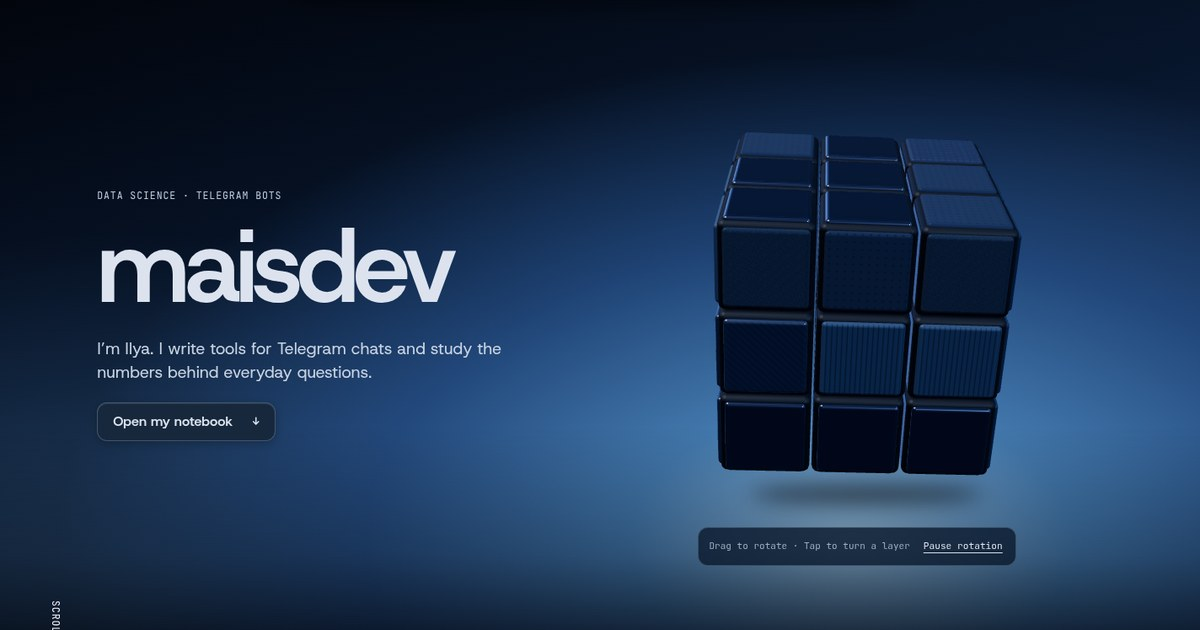
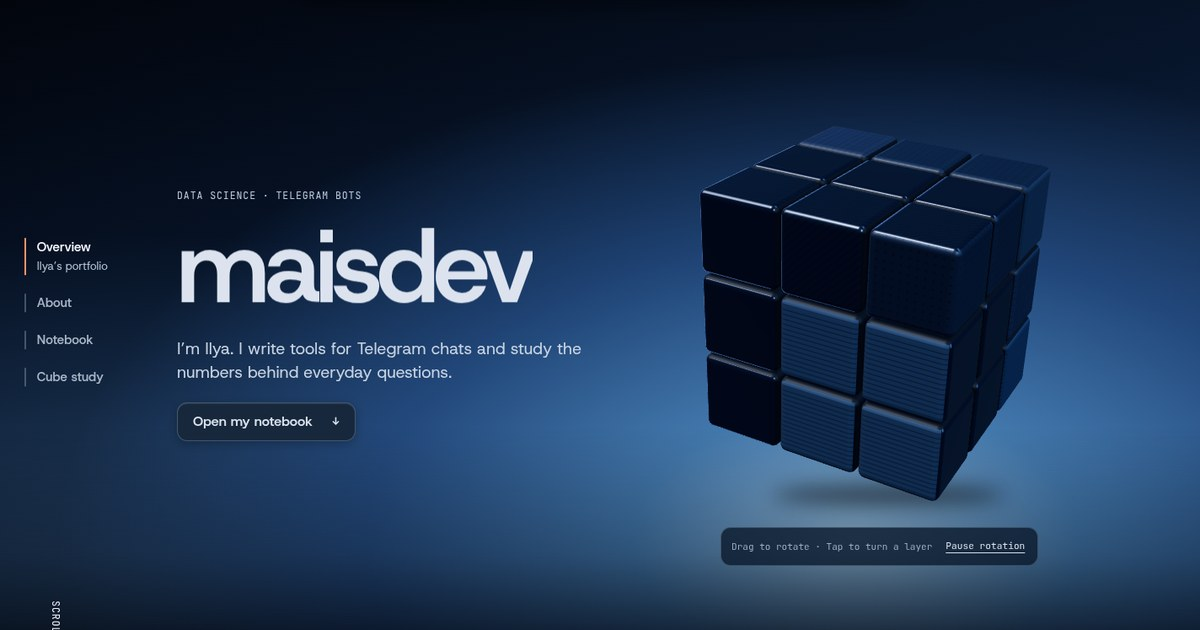
Возвращена форма кубика и добавлено пошаговое переключение секций

diff --git a/script.js b/script.js
@@ -1,4 +1,4 @@
-import { mountCube } from './cube.mjs?v=507c9028b3';
+import { mountCube } from './cube.mjs?v=9bf653d4c7';
 
 const canvas = document.querySelector('.cube canvas');
 if (canvas) mountCube(canvas);
@@ -34,25 +34,101 @@ if (CSS.supports('backdrop-filter','url(#nav-lens)') && /Chrome|Chromium|Edg\//.
   new ResizeObserver(paintLens).observe(dock);
 }
 
-const navLinks=[...dock.querySelectorAll('nav a')];
-const sections=navLinks.map(link=>document.querySelector(link.hash));
-const updateNav=()=>{
-  const current=sections.find(section=>{
-    const rect=section.getBoundingClientRect();
-    return rect.top<innerHeight*.5 && rect.bottom>innerHeight*.5;
-  });
-  for (const link of navLinks) {
-    if (current && link.hash==='#'+current.id) link.setAttribute('aria-current','location');
+const sections = [...document.querySelectorAll('main > section')];
+const indexLinks = [...document.querySelectorAll('.section-index a, .site-header nav a')];
+function updateNav() {
+  const current = sections.findLast(section => section.getBoundingClientRect().top <= innerHeight / 2) || sections[0];
+  for (const section of sections) section.classList.toggle('is-current',section===current);
+  for (const link of indexLinks) {
+    link.toggleAttribute('data-past',sections.indexOf(document.getElementById(link.hash.slice(1)))<sections.indexOf(current));
+    if (link.hash === '#' + current.id) link.setAttribute('aria-current','location');
     else link.removeAttribute('aria-current');
   }
-};
-let navFrame=0;
-function queueNavUpdate(){
-  if (!navFrame) navFrame=requestAnimationFrame(()=>{navFrame=0;updateNav();});
 }
-window.addEventListener('scroll',queueNavUpdate,{passive:true});
-window.addEventListener('resize',queueNavUpdate);
+window.addEventListener('scroll',updateNav,{passive:true});
+window.addEventListener('resize',updateNav);
 updateNav();
+import('./assets/moments/moments.js').then(async ({ready})=>{
+  await ready;
+  document.querySelectorAll('#about .mo-w').forEach((word,index)=>word.style.setProperty('--word-order',index));
+});
+
+// Keep tall sections readable, including at large text sizes and in landscape.
+function scrollStep(direction, distance) {
+  const top = scrollY;
+  const current = sections.findLastIndex(section => section.offsetTop <= top + 2);
+  const section = sections[Math.max(0,current)];
+  const start = section.offsetTop;
+  const end = Math.max(start,start + section.offsetHeight - innerHeight);
+  let next;
+  if (direction > 0) {
+    next = top < end-2 ? Math.min(end,top+distance) : sections[current+1]?.offsetTop ?? document.documentElement.scrollHeight;
+  } else if (top > end+2) {
+    next = end;
+  } else if (top > start+2) {
+    next = Math.max(start,top-distance);
+  } else {
+    const previous = sections[current-1];
+    next = previous ? Math.max(previous.offsetTop,start-innerHeight) : 0;
+  }
+  window.scrollTo({top:next,behavior:'instant'});
+  return direction > 0 ? next > start && next < end-2 : next > start+2 && next < end;
+}
+
+let wheelTime = -Infinity, wheelDirection = 0, stepped = false, accumulated = 0;
+window.addEventListener('wheel',event=>{
+  if (!event.cancelable || event.ctrlKey || event.shiftKey || Math.abs(event.deltaX)>Math.abs(event.deltaY) || !event.deltaY) return;
+  const direction = Math.sign(event.deltaY);
+  const now = performance.now();
+  if (now-wheelTime>145 || direction!==wheelDirection) {
+    stepped=false;
+    accumulated=0;
+  }
+  wheelTime=now;
+  wheelDirection=direction;
+  event.preventDefault();
+  if (stepped) return;
+  const unit = event.deltaMode===1 ? 16 : event.deltaMode===2 ? innerHeight : 1;
+  accumulated+=Math.abs(event.deltaY)*unit;
+  if (accumulated<8) return;
+  const reading = scrollStep(direction,accumulated);
+  accumulated=0;
+  stepped=!reading;
+},{passive:false});
+
+window.addEventListener('keydown',event=>{
+  if (event.defaultPrevented || event.ctrlKey || event.metaKey || event.altKey || event.target.closest('input,select,textarea,[contenteditable=true]')) return;
+  const directions = {ArrowDown:1,PageDown:1,ArrowUp:-1,PageUp:-1,' ':event.shiftKey ? -1 : 1};
+  if (!(event.key in directions) || event.key===' ' && event.target.closest('button,a,summary')) return;
+  event.preventDefault();
+  if (!event.repeat) scrollStep(directions[event.key],innerHeight*.8);
+});
+
+let swipe = null;
+window.addEventListener('touchstart',event=>{
+  const point=event.touches[0];
+  swipe=event.touches.length===1 && (window.visualViewport?.scale ?? 1)===1
+    ? {x:point.clientX,y:point.clientY,section:sections.find(s=>s.contains(event.target)),claimed:false} : null;
+},{passive:true});
+window.addEventListener('touchmove',event=>{
+  if (!swipe?.section || !event.cancelable) return;
+  const dx=event.touches[0].clientX-swipe.x, dy=event.touches[0].clientY-swipe.y;
+  if (!swipe.claimed) {
+    if (Math.abs(dx)>Math.abs(dy) || Math.abs(dy)<3) return;
+    const rect=swipe.section.getBoundingClientRect();
+    if (dy<0 && rect.bottom>innerHeight+2 || dy>0 && rect.top < -2) return;
+    swipe.claimed=true;
+  }
+  event.preventDefault();
+},{passive:false});
+window.addEventListener('touchend',event=>{
+  if (swipe?.claimed) {
+    const dy=swipe.y-event.changedTouches[0].clientY;
+    if (Math.abs(dy)>32) scrollStep(Math.sign(dy),innerHeight*.8);
+  }
+  swipe=null;
+},{passive:true});
+window.addEventListener('touchcancel',()=>{swipe=null;},{passive:true});
 
 // Everything stays readable without script and when a visitor follows an anchor.
 if ('IntersectionObserver' in window && !matchMedia('(prefers-reduced-motion: reduce)').matches) {

diff --git a/style.css b/style.css
@@ -4,7 +4,7 @@
   --bg:#000207;--ink:#dce3ef;--quiet:#aab6cb;--accent:#23d782;--rule:#233147;--paper:#030915;
   --font-display:Host,Arial,sans-serif;--display-weight:500;--display-tracking:-.055em;--t-h2:clamp(2.5rem,6.3vw,6rem);
   --mono:PlexCode,monospace;--ease:cubic-bezier(.2,.72,.23,1);--nav:76px;
-  font-family:var(--font-display);color:var(--ink);background:var(--bg);scroll-behavior:smooth
+  font-family:var(--font-display);color:var(--ink);background:var(--bg);scroll-behavior:auto
 }
 *{box-sizing:border-box}
 body,h1,h2,h3,p{margin:0}
@@ -14,7 +14,7 @@ a{color:inherit;text-decoration:none}
 .skip:focus{transform:none;outline:3px solid #23d782;outline-offset:2px}
 .wrap{width:min(1440px,calc(100% - clamp(40px,9vw,160px)));margin-inline:auto}
 .site-header{height:var(--nav);position:sticky;top:0;z-index:5;background:var(--bg)}
-html{scroll-padding-top:calc(var(--nav) + 8px)}
+html{scroll-padding-top:0}
 html:has(:focus-visible){scroll-behavior:auto}
 .nav-inner,.nav nav,.wordmark,footer .wrap,.socials,.socials a,.next-section,.eyebrow,.contact{display:flex;align-items:center}
 .nav-inner{height:100%;justify-content:space-between;border-bottom:1px solid var(--rule)}
@@ -221,3 +221,36 @@ footer .wrap{min-height:84px;justify-content:space-between}
   to {transform:translate3d(7%,-8%,0) scale(1.14)}
 }
 @media(prefers-reduced-motion:reduce){.hero::before{transform:none}}
+
+.section-index {
+  position:fixed;z-index:4;left:clamp(18px,2vw,36px);top:50%;transform:translateY(-50%);
+  width:156px;display:grid;
+}
+.section-index a {display:block;position:relative;padding:11px 0 11px 15px;min-height:44px;color:#a7b5c6}
+.section-index a::before {content:"";position:absolute;left:0;top:11px;bottom:11px;width:2px;background:#8496aa77}
+.section-index strong {font-weight:550;font-size:.94rem}
+.section-index small {display:none;margin-top:4px;font-size:.82rem;line-height:1.42;color:#b1c2d4}
+.section-index a[aria-current],.section-index a:hover {color:#f5f8ff}
+.section-index a[data-past]::before {background:#ac765e}
+.section-index a[aria-current]::before {background:#ff9468}
+.section-index a[aria-current] small {display:block}
+@media(min-width:1051px){
+  .hero-layout {padding-left:max(210px,calc((100vw - 1120px)/2))}
+  .about-layout,.study-layout {width:auto;max-width:1200px;margin-inline:max(210px,calc((100vw - 1120px)/2)) max(5vw,calc((100vw - 1360px)/2))}
+}
+@media(max-width:1050px){
+  .section-index {inset:auto 0 0;transform:none;width:100%;display:grid;grid-template-columns:repeat(4,1fr);padding:0 max(6px,env(safe-area-inset-right)) env(safe-area-inset-bottom) max(6px,env(safe-area-inset-left));background:#0a1320;border-top:1px solid #293b50}
+  .section-index a {display:grid;place-content:center;padding:5px;text-align:center}
+  .section-index a::before {top:0;bottom:auto;left:12%;width:76%;height:2px}
+  .section-index strong {font-size:.78rem}
+  .section-index a[aria-current] small {display:none}
+  .hero-meta {bottom:64px}
+  footer {padding-bottom:calc(46px + env(safe-area-inset-bottom))}
+}
+@media(prefers-reduced-motion:no-preference){
+  #about.is-current .mo-wh__text .mo-w {animation:word-arrival .44s both;animation-delay:calc(var(--word-order,0) * 45ms)}
+  #about.is-current strong {--word-ink:var(--accent)}
+  @keyframes word-arrival {from{color:#8091aa}to{color:var(--word-ink,var(--ink))}}
+}
+
+html {scrollbar-color:#4c5c70 #0a1320;scrollbar-width:thin}

diff --git a/index.html b/index.html
@@ -15,13 +15,13 @@
   <link rel="icon" href="assets/mark.svg" type="image/svg+xml">
   <link rel="preload" href="assets/fonts/host-grotesk.woff2" as="font" type="font/woff2" crossorigin>
   <link rel="stylesheet" href="assets/motion/motion.css">
-  <link rel="stylesheet" href="style.css?v=9b1e379817">
+  <link rel="stylesheet" href="style.css?v=db43e7f713">
   <script>document.documentElement.classList.add('m-enter');setTimeout(() => document.documentElement.classList.add('m-enter-done'), 700)</script>
   <script type="module" src="assets/motion/motion.js"></script>
-  <script type="module" src="script.js?v=fd70297efe"></script>
+  <script type="module" src="script.js?v=c82b797995"></script>
   <script type="module" src="assets/moments/moments.js"></script>
 </head>
-<body id="top">
+<body>
   <a class="skip" href="#main">Skip to content</a>
   <svg class="lens-def" width="0" height="0" aria-hidden="true">
     <defs><filter id="nav-lens" x="0" y="0" width="100%" height="100%" color-interpolation-filters="sRGB">
@@ -36,8 +36,14 @@
       <a class="git-link" href="https://github.com/daexorn" aria-label="daexorn on GitHub"><img src="assets/brands/github.svg" alt="" width="20" height="20"><span>GitHub</span></a>
     </div>
   </header>
+  <nav class="section-index" aria-label="Portfolio sections">
+    <a href="#top" aria-current="location"><strong>Overview</strong><small>Ilya’s portfolio</small></a>
+    <a href="#about"><strong>About</strong><small>Background and contacts</small></a>
+    <a href="#notebook"><strong>Notebook</strong><small>A reply-time experiment</small></a>
+    <a href="#cube-study"><strong>Cube study</strong><small>Follow a quarter turn</small></a>
+  </nav>
   <main id="main">
-    <section class="hero" data-enter aria-labelledby="headline">
+    <section id="top" class="hero" data-enter aria-labelledby="headline">
       <div class="wrap hero-layout">
         <div class="hero-text">
           <p class="eyebrow">Data science · Telegram bots</p>
